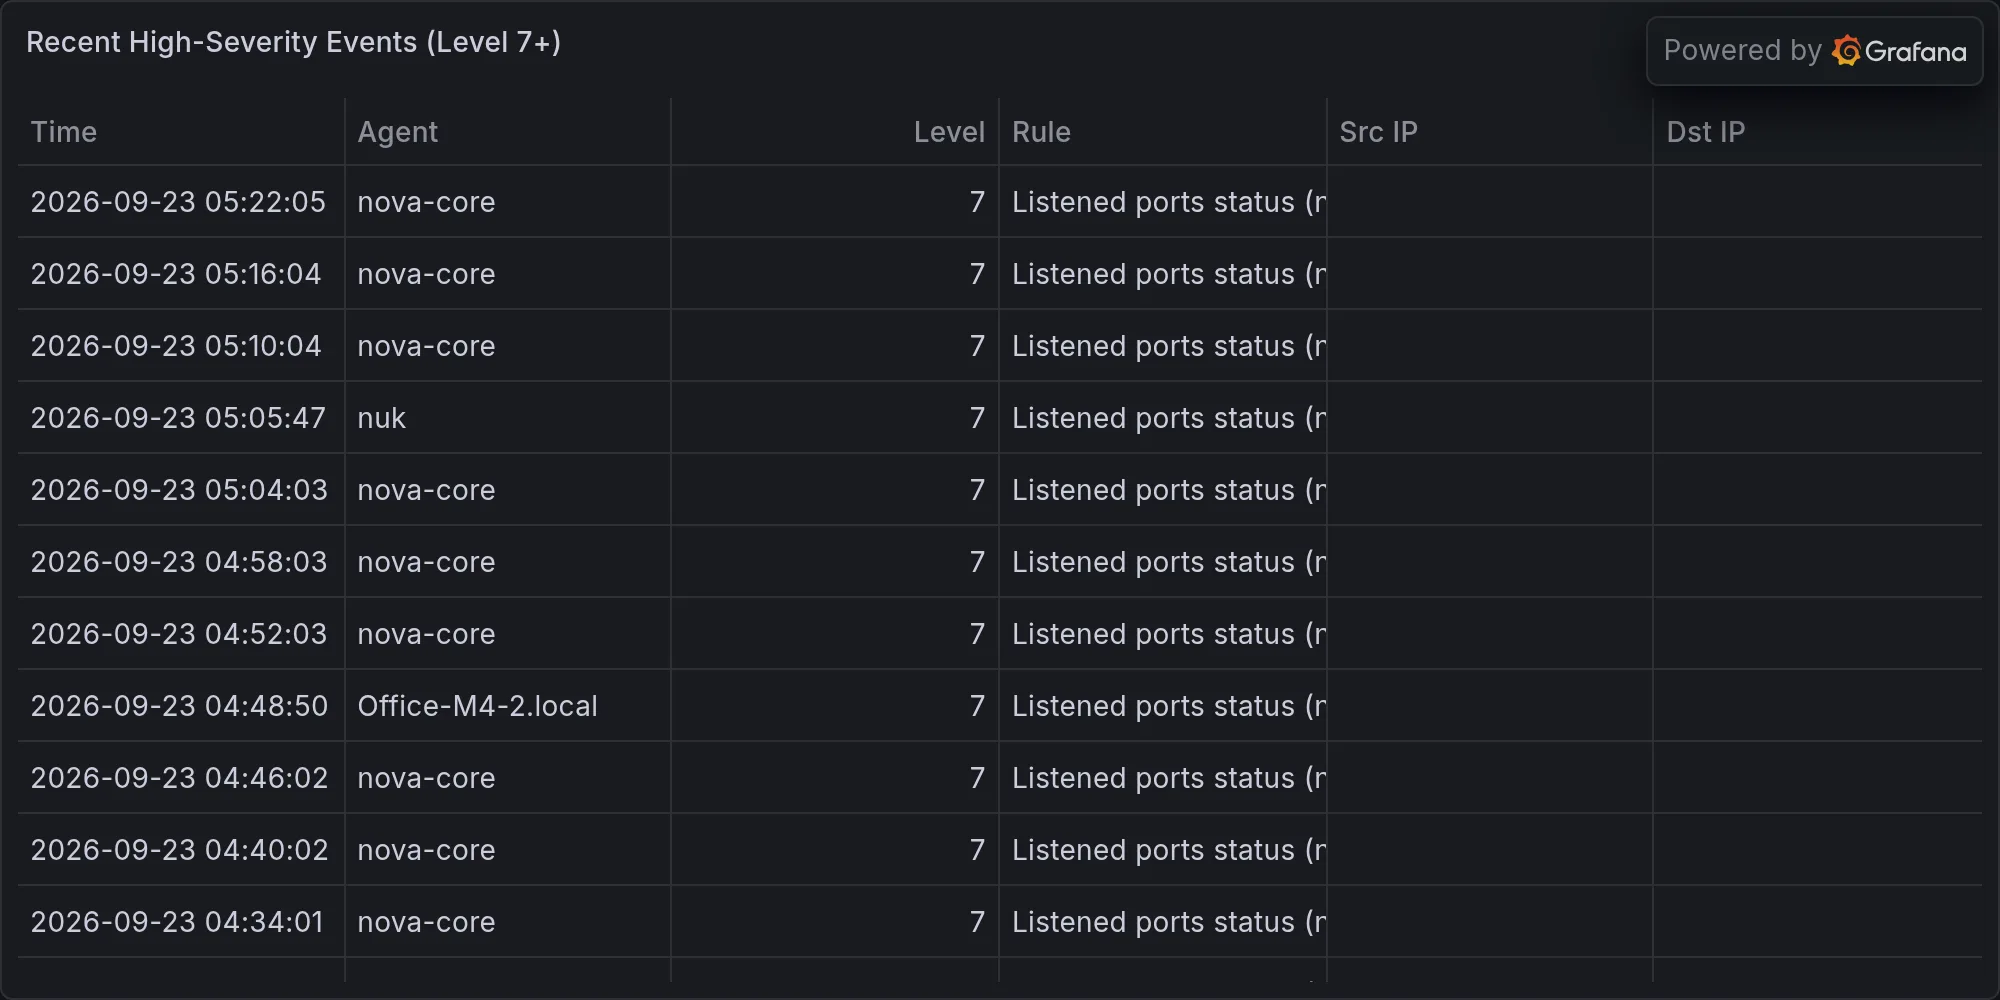
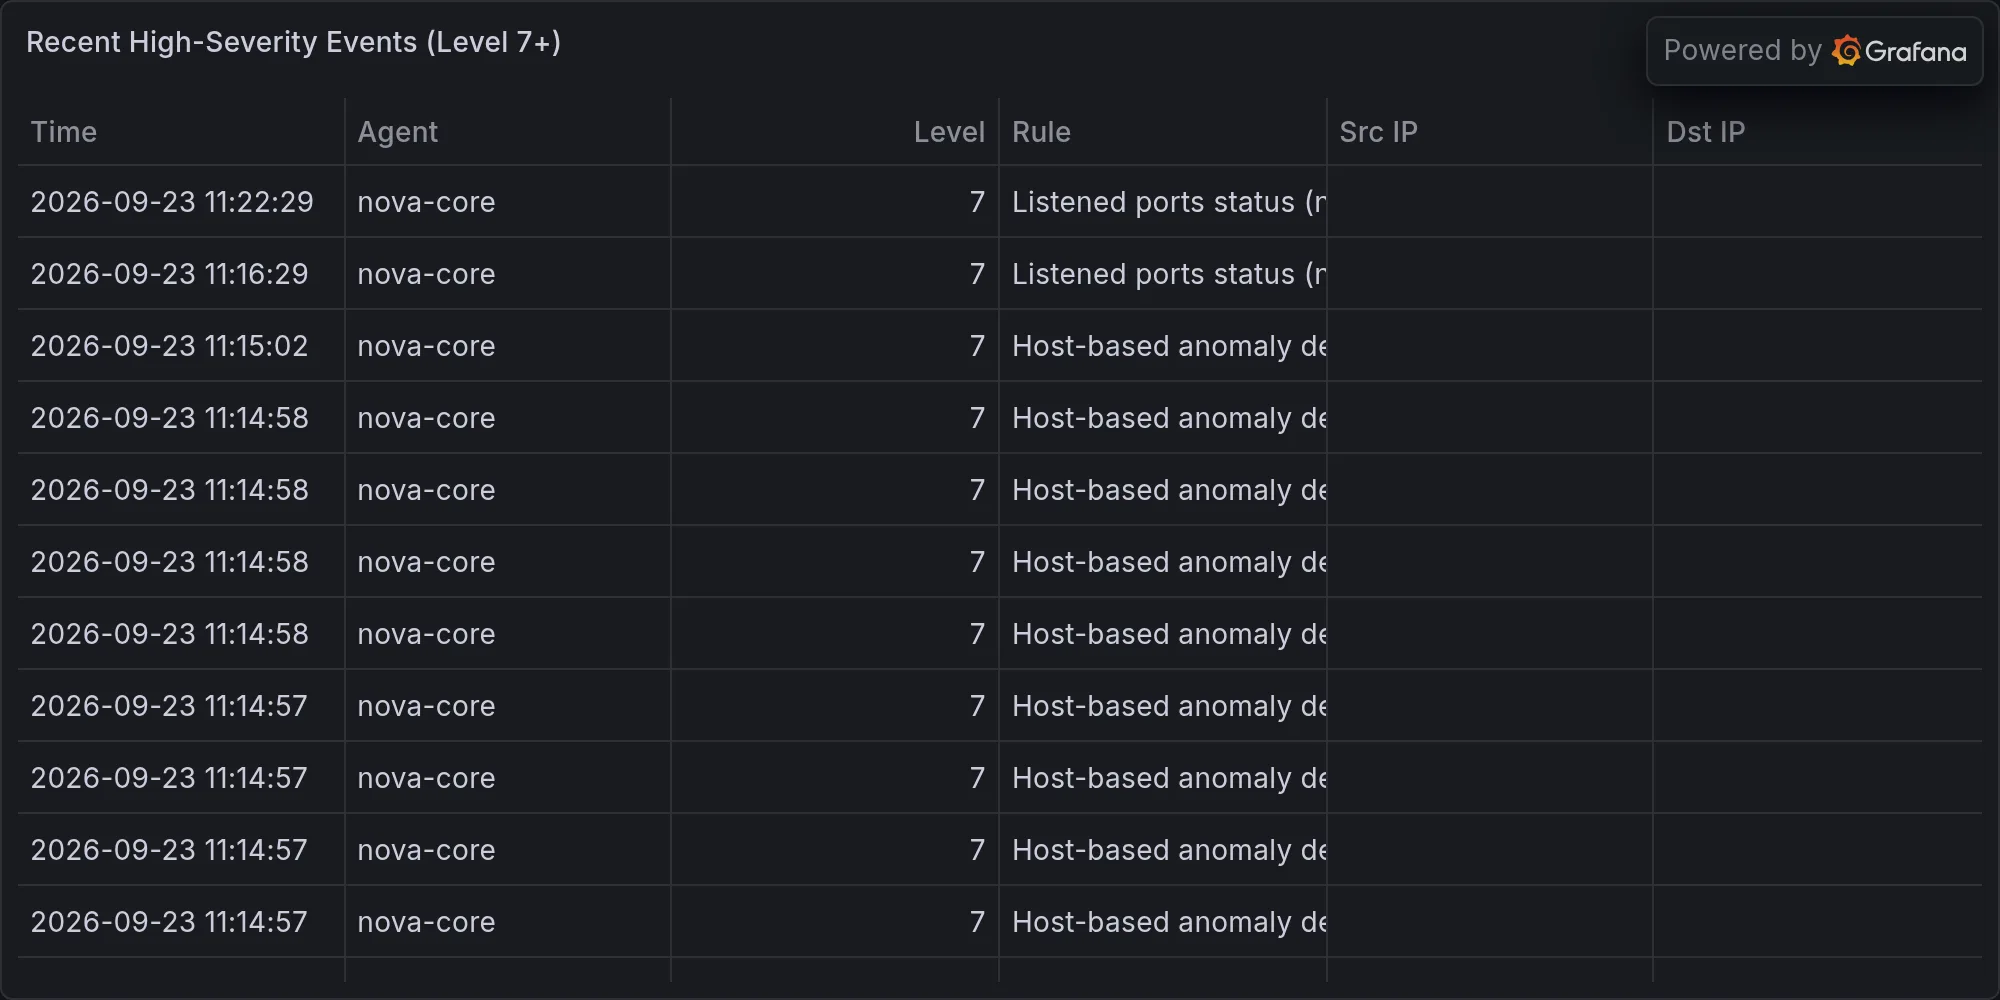
security: 2026-09-23 — **CVE-2026-93616: Check Point Management Server Ze

diff --git a/content/operations/2026-09-23-cve-2026-93616-check-point-management-server-zero-day-under-.md b/content/operations/2026-09-23-cve-2026-93616-check-point-management-server-zero-day-under-.md
@@ -1,0 +1,55 @@
+---
+title: "🛡 **CVE-2026-93616: Check Point Management Server Zero-Day Under Active Exploitation**"
+date: 2026-09-23T11:29:07-07:00
+draft: false
+categories: ["operations"]
+tags: ["breaking-alert", "soc-prime-cve-2026-93616", "security"]
+description: "BREAKING: SOC Prime: CVE-2026-93616"
+cover:
+  image: "/images/operations/2026-09-23-cve-2026-93616-check-point-management-server-zero-day-under-.webp"
+  alt: "**CVE-2026-93616: Check Point Management Server Zero-Day Under Active Exploitation**"
+  relative: false
+---
+
+*Published Wednesday, September 23, 2026 at 11:29 AM PT*
+
+![**CVE-2026-93616: Check Point Management Server Zero-Day Under Active Exploitation**](/images/operations/2026-09-23-cve-2026-93616-check-point-management-server-zero-day-under-.webp)
+
+**BLUF:** Critical zero-day vulnerability (CVSS 9.8) in Check Point Management Server is actively exploited in targeted attacks. Unauthenticated network-accessible attackers can compromise affected instances. Check Point has released emergency patches. Immediate patching and network segmentation of management infrastructure required.
+
+**DETAILS:**
+- **CVE ID:** CVE-2026-93616 (critical zero-day)
+- **Severity:** CVSS 9.8 — allows unauthenticated remote exploitation via network access
+- **Affected Product:** Check Point Security Management infrastructure (product line and specific versions not detailed in available material)
+- **Exploitation Status:** Confirmed active exploitation in targeted attacks; vendor confirms real-world compromise
+- **Vendor Response:** Check Point released emergency security updates; specific patch versions not detailed in available material
+
+**IMPACT:**
+Check Point Management Server is a centralized control point for enterprise security infrastructure. Compromise at this layer grants attackers the ability to:
+- Gain unauthorized access to the management server itself
+- Potentially pivot to managed security appliances across the enterprise
+- Modify security policies and configurations
+- Access sensitive security data and logs
+- Affect organizations across all verticals that deploy Check Point management infrastructure
+
+**RECOMMENDED ACTIONS (Immediate):**
+1. **Inventory** Check Point Management Server instances in your environment (on-premise and cloud-hosted)
+2. **Apply** vendor-supplied emergency patches without delay
+3. **Isolate** management servers from untrusted networks pending patch completion; restrict access to known administrative IPs only
+4. **Monitor** management server access logs for anomalous authentication or API calls
+5. **Escalate** to your Check Point account team if patching is not immediately possible
+6. **Alert** your CISO/SOC; this is actively exploited in the wild
+
+**SOURCES:**
+- SOC Prime threat intelligence feed (2026-09-23)
+- Check Point security advisory
+
+---
+
+*Note: Specific version numbers, patch identifiers, and complete attack vector details were unavailable in source material at time of generation. Consult Check Point's official security advisory and your vendor contact for complete remediation details.*
+
+---
+
+**Recent high-severity events at publish time:**
+
+![Recent high-severity events](/images/operations/2026-09-23-breaking-alert-posture.webp)
